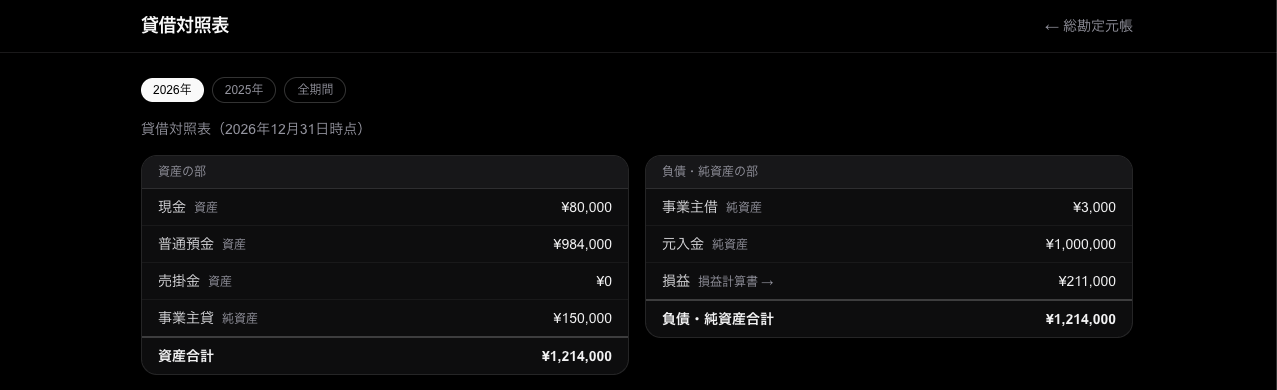
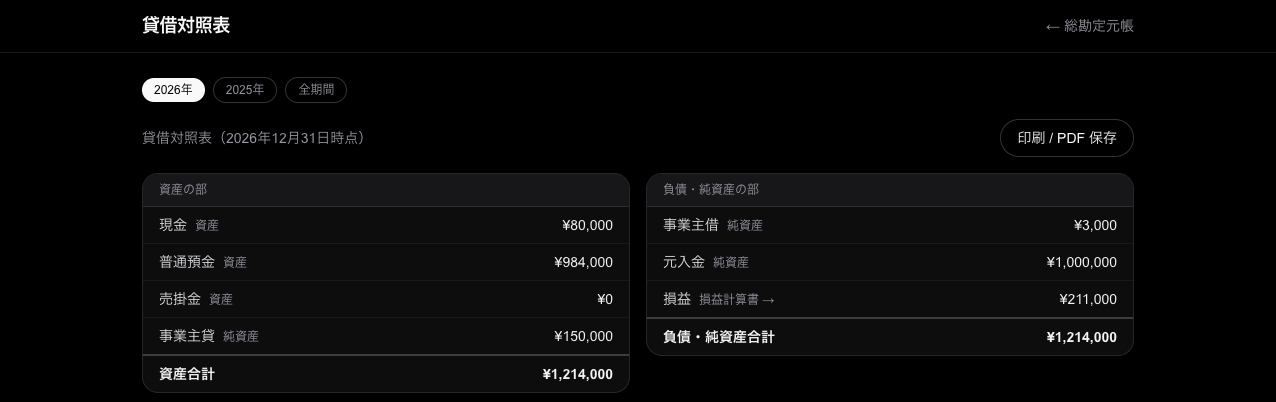
README に帳簿の印刷（PDF 保存）を追記しスクリーンショットを更新する
実装済みリストに印刷機能と使い方（ブラウザの印刷ダイアログで PDF に
保存）を追加し、総勘定元帳（印刷用）の表示例を新規掲載。印刷ボタンや
「元帳を印刷」の導線が増えたページのスクリーンショットを撮り直した。

diff --git a/README.md b/README.md
@@ -40,6 +40,10 @@
 
 ![総勘定元帳（科目別）](./docs/screenshot-ledger-account.png)
 
+**総勘定元帳（印刷用）** — 仕訳のある全科目の元帳を 1 ページに並べます。「印刷 / PDF 保存」ボタンからブラウザの印刷ダイアログを開くと、科目ごとに改ページしながら A4 縦で印刷（PDF 保存）できます。仕訳帳・試算表・損益計算書・貸借対照表にも同じ印刷ボタンがあります。
+
+![総勘定元帳（印刷用）](./docs/screenshot-ledger-print.png)
+
 **合計残高試算表** — 科目別の借方・貸方の合計と残高を集計します。貸借の総計が一致するか検算できます。
 
 ![合計残高試算表](./docs/screenshot-ledger-trial-balance.png)
@@ -72,7 +76,8 @@
 
 本アプリは現在開発中です。現時点では、勘定科目・補助科目の管理・
 ダッシュボード表示・仕訳の入力・一覧・編集・削除・総勘定元帳・試算表・
-損益計算書・貸借対照表・年度締め（決算）までを実装しています。
+損益計算書・貸借対照表・年度締め（決算）・帳簿の印刷（PDF 保存）までを
+実装しています。
 
 実装済み:
 
@@ -92,6 +97,11 @@
   繰越仕訳も保護され、締め解除でのみ消える）
 - 勘定科目・補助科目の管理画面（`/accounts`。追加・編集・有効/無効の切替。
   仕訳で使用中の科目は分類・通常残高の向きを変更不可。未使用のものだけ削除可）
+- 帳簿の印刷・PDF 保存（仕訳帳・試算表・損益計算書・貸借対照表の各ページと、
+  全科目の元帳を並べた印刷用ページ `/ledger/print`。各ページの
+  「印刷 / PDF 保存」ボタンでブラウザの印刷ダイアログを開き、送信先で
+  「PDF に保存」を選ぶと PDF になる。A4 縦を前提にレイアウトし、
+  印刷時はナビゲーション等を自動で隠す）
 - データモデル（勘定科目・補助科目・仕訳・年度締め）と初期データ投入（seed）
 - 残高・損益・元帳・試算表・繰越の集計ロジック、仕訳入力の検証ロジック
 
